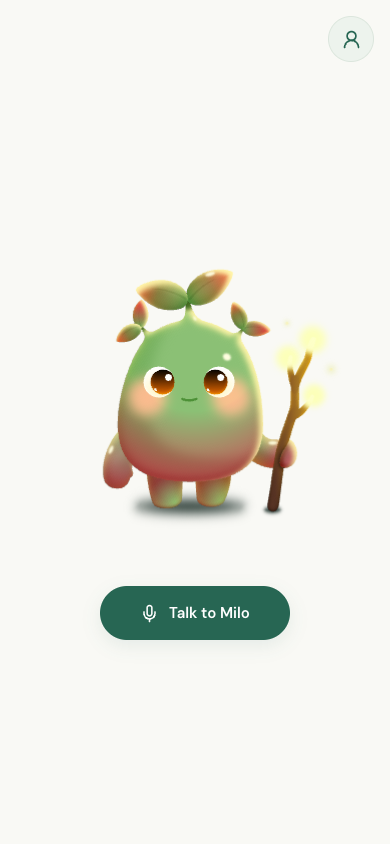
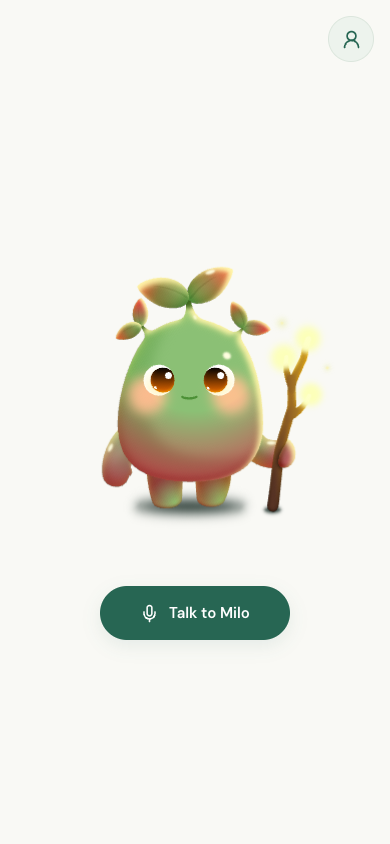
Reduce Milo GPU work with bounded animation and idle suspension

diff --git a/src/components/avatar.tsx b/src/components/avatar.tsx
@@ -26,19 +26,82 @@ export function Avatar({
   const canvas = useRef<HTMLCanvasElement>(null);
   const runtime = useRef<Rive | null>(null);
   const currentState = useRef(state);
+  const updateRendering = useRef<((drawNow?: boolean) => void) | null>(null);
   const [ready, setReady] = useState(false);
   useEffect(() => {
     currentState.current = state;
     if (runtime.current?.viewModelInstance) animate(runtime.current, state);
+    updateRendering.current?.(true);
   }, [state]);
   useEffect(() => {
     const element = canvas.current;
     if (!element) return;
     let cancelled = false;
     let instance: Rive | undefined;
-    const resize = () => instance?.resizeDrawingSurfaceToCanvas();
+    let loaded = false;
+    let timer: ReturnType<typeof setTimeout> | undefined;
+    let inViewport = true;
+    let settleUntil = 0;
+    const visible = () => !cancelled && !document.hidden && inViewport;
+    const stop = () => {
+      clearTimeout(timer);
+      timer = undefined;
+      instance?.stopRendering();
+    };
+    const suspend = () => {
+      stop();
+      if (instance && loaded && !instance.isPaused) {
+        instance.pause();
+        // A paused frame resets Rive's elapsed-time reference. The next
+        // animation must not jump ahead by the entire idle/hidden interval.
+        instance.drawFrame();
+        instance.stopRendering();
+      }
+    };
+    // Draw explicitly instead of running Rive's unlimited refresh-rate loop.
+    // Actual elapsed time still drives animation, so speech never slows down.
+    const frame = () => {
+      if (!instance || !loaded || !visible()) return;
+      if (instance.isPaused) instance.play();
+      else instance.drawFrame();
+      instance.stopRendering();
+      if (currentState.current !== "idle" || performance.now() < settleUntil) {
+        timer = setTimeout(frame, 1000 / (currentState.current === "speaking" ? 30 : 15));
+      } else suspend();
+    };
+    const render = (drawNow = false) => {
+      stop();
+      if (!instance || !loaded || !visible()) return;
+      // Let the supplied transition finish before freezing the resting pose.
+      if (drawNow && currentState.current === "idle") settleUntil = performance.now() + 500;
+      if (drawNow) frame();
+      else if (currentState.current !== "idle" || performance.now() < settleUntil) {
+        timer = setTimeout(frame, 1000 / (currentState.current === "speaking" ? 30 : 15));
+      }
+    };
+    updateRendering.current = render;
+    const resize = () => {
+      if (!instance || !loaded || !visible()) return;
+      const bounds = element.getBoundingClientRect();
+      // Retina resolution scales pixel work quadratically; keep the brush
+      // shading while bounding the drawing surface on high-density displays.
+      const dpr = Math.min(window.devicePixelRatio || 1, 1.5, 960 / Math.max(bounds.width, bounds.height, 1));
+      instance.resizeDrawingSurfaceToCanvas(dpr);
+      render();
+    };
     const observer = new ResizeObserver(resize);
     observer.observe(element);
+    const intersection = new IntersectionObserver(([entry]) => {
+      inViewport = entry.isIntersecting;
+      if (inViewport) { resize(); render(true); }
+      else suspend();
+    });
+    intersection.observe(element);
+    const onVisibility = () => {
+      if (document.hidden) suspend();
+      else { resize(); render(true); }
+    };
+    document.addEventListener("visibilitychange", onVisibility);
     void import("@rive-app/webgl2").then(({ Rive, RuntimeLoader, Layout, Fit, Alignment }) => {
       if (cancelled) return;
       RuntimeLoader.setWasmUrl("/rive/webgl2/rive.wasm");
@@ -57,17 +120,27 @@ export function Avatar({
         shouldDisableRiveListeners: true,
         layout: new Layout({ fit: Fit.Contain, alignment: Alignment.Center }),
         onLoad: () => {
-          if (cancelled || !instance) return;
-          animate(instance, currentState.current);
-          resize();
-          setReady(true);
+          // Rive queues its initial frame after onLoad; take ownership after it.
+          queueMicrotask(() => {
+            if (cancelled || !instance) return;
+            loaded = true;
+            animate(instance, currentState.current);
+            resize();
+            stop();
+            render(true);
+            setReady(true);
+          });
         },
       });
       runtime.current = instance;
     }).catch(() => { /* The supplied character's still image remains visible. */ });
     return () => {
       cancelled = true;
+      stop();
       observer.disconnect();
+      intersection.disconnect();
+      document.removeEventListener("visibilitychange", onVisibility);
+      updateRendering.current = null;
       runtime.current = null;
       instance?.cleanup();
     };

diff --git a/tests/e2e/home.spec.ts b/tests/e2e/home.spec.ts
@@ -147,3 +147,79 @@ test("preserves the original avatar's feathered brush shading", async ({ page })
     return alpha > 5 && alpha < 220;
   })).toBe(true);
 });
+
+test.describe("avatar rendering budget", () => {
+  test.use({ deviceScaleFactor: 3 });
+  test("rests when idle or hidden and limits active rendering", async ({ page }, testInfo) => {
+    await page.addInitScript(() => {
+      const original = CanvasRenderingContext2D.prototype.drawImage;
+      (window as unknown as { avatarDraws: number }).avatarDraws = 0;
+      CanvasRenderingContext2D.prototype.drawImage = function (image: CanvasImageSource, ...coordinates: number[]) {
+        if (this.canvas.classList.contains("mascot-rive")) {
+          (window as unknown as { avatarDraws: number }).avatarDraws++;
+        }
+        return Reflect.apply(original, this, [image, ...coordinates]);
+      };
+    });
+    await fakeVoice(page, false, true);
+    await page.route("**/api/session", route => route.fulfill({ json: { transport: { sdp: "answer" } } }));
+    await page.goto("/");
+    const canvas = page.locator(".avatar canvas");
+    await expect(canvas).toHaveCSS("opacity", "1");
+    const draws = () => page.evaluate(() => (window as unknown as { avatarDraws: number }).avatarDraws);
+    const darkMouth = () => canvas.evaluate((c: HTMLCanvasElement) => {
+      const x = Math.floor(c.width * 0.45), y = Math.floor(c.height * 0.505);
+      const width = Math.floor(c.width * 0.07), height = Math.floor(c.height * 0.05);
+      const pixels = c.getContext("2d")!.getImageData(x, y, width, height).data;
+      let dark = 0;
+      for (let i = 0; i < pixels.length; i += 4) {
+        if (pixels[i + 3] > 100 && pixels[i] < 70 && pixels[i + 1] < 100 && pixels[i + 2] < 80) dark++;
+      }
+      return dark / (width * height);
+    });
+    await page.waitForTimeout(650);
+    const idle = await draws();
+    await page.waitForTimeout(1000);
+    expect(await draws() - idle).toBe(0);
+    expect(await canvas.evaluate((c: HTMLCanvasElement) => c.width / c.getBoundingClientRect().width)).toBeLessThanOrEqual(1.5);
+    expect(await canvas.evaluate((c: HTMLCanvasElement) => Math.max(c.width, c.height))).toBeLessThanOrEqual(960);
+    await page.getByRole("button", { name: "Talk to Milo", exact: true }).click();
+    await page.evaluate(() => { window.voiceTest.speaking = true; });
+    await expect(page.locator(".avatar-speaking")).toBeVisible();
+    const active = await draws();
+    await page.waitForTimeout(2000);
+    const frames = await draws() - active;
+    expect(frames).toBeGreaterThan(5);
+    expect(frames).toBeLessThanOrEqual(65);
+    await testInfo.attach("rendering-budget.json", {
+      body: JSON.stringify({ idleFrames: 0, speakingFramesInTwoSeconds: frames, surface: await canvas.evaluate((c: HTMLCanvasElement) => ({ width: c.width, height: c.height, dpr: window.devicePixelRatio })) }),
+      contentType: "application/json",
+    });
+    await page.evaluate(() => {
+      Object.defineProperty(document, "hidden", { configurable: true, value: true });
+      document.dispatchEvent(new Event("visibilitychange"));
+    });
+    const hidden = await draws();
+    await page.waitForTimeout(500);
+    expect(await draws() - hidden).toBe(0);
+    await page.evaluate(() => {
+      Object.defineProperty(document, "hidden", { configurable: true, value: false });
+      document.dispatchEvent(new Event("visibilitychange"));
+    });
+    await expect.poll(draws).toBeGreaterThan(hidden);
+    await page.locator(".avatar").evaluate(e => { (e as HTMLElement).style.transform = "translateY(200vh)"; });
+    await page.waitForTimeout(200);
+    const outside = await draws();
+    await page.waitForTimeout(500);
+    expect(await draws() - outside).toBe(0);
+    await page.locator(".avatar").evaluate(e => { (e as HTMLElement).style.transform = ""; });
+    await expect.poll(draws).toBeGreaterThan(outside);
+    await expect.poll(darkMouth).toBeGreaterThan(0.05);
+    await page.getByRole("button", { name: "End conversation", exact: true }).click();
+    await expect.poll(darkMouth, { timeout: 2000 }).toBeLessThan(0.01);
+    await page.waitForTimeout(650);
+    const ended = await draws();
+    await page.waitForTimeout(500);
+    expect(await draws() - ended).toBe(0);
+  });
+});

diff --git a/README.md b/README.md
@@ -1,6 +1,6 @@
 # ontuc
 
-A hackathon health companion with a minimal main screen: Milo, one **Talk to Milo** button and a compact top-right account icon. Click to start voice; the same button cancels setup or ends the conversation. The supplied `public/animations/milo.riv` character uses its built-in idle, greeting, listening and talking states. Talking continues through short speech pauses and stops on user interruption; response completion is inferred after two seconds of output silence. Rive's WebGL2 renderer preserves the original soft shading and feathered edges, with the matching pinned WebAssembly runtime served locally from `public/rive/webgl2`. A still frame rendered with the same renderer appears while loading or if animation cannot load.
+A hackathon health companion with a minimal main screen: Milo, one **Talk to Milo** button and a compact top-right account icon. Click to start voice; the same button cancels setup or ends the conversation. The supplied `public/animations/milo.riv` character uses its built-in idle, greeting, listening and talking states. Talking continues through short speech pauses and stops on user interruption; response completion is inferred after two seconds of output silence. Rive's WebGL2 renderer preserves the original soft shading and feathered edges, with the matching pinned WebAssembly runtime served locally from `public/rive/webgl2`. Milo settles into a still pose when idle, renders speaking at up to 30 FPS and connecting/listening at up to 15 FPS, and pauses when hidden or outside the viewport. Rendering is capped at 1.5 device pixels per CSS pixel and a 960-pixel drawing surface. A still frame rendered with the same renderer appears while loading or if animation cannot load.
 
 The complete care-plan, sample appointment and editable doctor-brief journey remains available at `/journey`. The guided journey uses a fixed sample patient; the main appointment form and Milo save appointment reservations in SQLite. Signed-in Google users are stored in the same database, linked to their appointments by Google ID.
 
@@ -48,7 +48,7 @@ npx playwright install chromium
 npm run test:e2e
 ```
 
-On 7 October 2026: 136 unit tests and all 36 browser tests passed. Lint, typecheck and production build passed. Browser checks cover the complete sample journey, edit preservation after upstream errors, urgent routing, mode isolation, mobile widths and keyboard access. Live transport tests use fake media and upstream calls. Actual account-backed voice/audio, interruptions and captions remain **unverified**; automated checks use mocked live audio and upstream calls, with actual browser rendering of the supplied Rive animation. A separate real Responses backend check passed prepare → spoken booking question → one approval → booking-tool call → save in an isolated SQLite database, using only synthetic data. It did not exercise live speech. Google credentials are configured and the signed-in public platform was inspected. See [verification evidence](docs/verification.md).
+On 7 October 2026: 136 unit tests and all 37 browser tests passed. Lint, typecheck and production build passed. Browser checks cover the complete sample journey, edit preservation after upstream errors, urgent routing, mode isolation, mobile widths and keyboard access. Live transport tests use fake media and upstream calls. Actual account-backed voice/audio, interruptions and captions remain **unverified**; automated checks use mocked live audio and upstream calls, with actual browser rendering of the supplied Rive animation. A separate real Responses backend check passed prepare → spoken booking question → one approval → booking-tool call → save in an isolated SQLite database, using only synthetic data. It did not exercise live speech. Google credentials are configured and the signed-in public platform was inspected. See [verification evidence](docs/verification.md).
 
 ## Prototype boundaries
 

diff --git a/docs/verification.md b/docs/verification.md
@@ -91,3 +91,11 @@ A new real-browser regression checks the shadow's intermediate opacity below the
 Final local verification: 136 unit tests, ESLint and TypeScript pass; all 36 browser tests pass in 46.2 seconds with four workers. Initial headless runs using Chromium's SwiftShader software renderer hit click timeouts (including a two-page booking test with one worker). A renderer probe identified SwiftShader versus the available Apple M2 Metal renderer. Playwright now uses native Metal on macOS, keeping the original action timeouts and full coverage. No test was skipped or changed to bypass input checks. The real feathering regression and speech/interruption checks pass with both software rendering in the focused home run and native GPU rendering in the final full run. These checks made no paid AI calls and used isolated synthetic booking data. Updated desktop/mobile screenshots show the restored shading.
 
 Production build passes and the web LaunchAgent was restarted with the correction. Public ontuc.com login, the original avatar, both WebGL2 WASM binaries and the updated fallback return HTTP 200; downloaded asset hashes match the local files. WASM is served as application/wasm. An unauthenticated appointment request still returns HTTP 401.
+
+Avatar rendering optimization — 7 October 2026: the enlarged feathered avatar was continuously rendering at the display refresh rate and uncapped device pixel ratio. A real high-density browser regression observed redraws while idle before the fix. Rendering now uses bounded explicit Rive frames: speaking up to 30 FPS, connecting/listening up to 15 FPS, and a 500 ms idle transition before suspension. The drawing surface is capped at 960 pixels and DPR 1.5 without changing the character's display size or WebGL feathering. Offscreen and hidden tabs suspend rendering; public pause/drawFrame/play APIs reset elapsed time on resume. Resize/visibility/intersection observers and timers are cleaned up on unmount. This follows Rive's [rendering-loop APIs](https://rive.app/docs/runtimes/web/rive-parameters#rendering-loop).
+
+Independent review identified that suspending after only one idle frame froze the talking mouth. A real mouth-pixel regression reproduced that loss (25.5% dark pixels in the mouth region instead of under 1%); the bounded transition corrects it. The final browser regression verifies no ongoing idle/end-call/hidden/offscreen redraws, continued motion on resume, bounded drawing resolution at DPR 3, the speaking frame budget, and a closed resting mouth. Existing visual-feathering and speech-gap/interruption tests continue to pass. These are rendering-work measurements; laptop temperature and battery savings were not measured. No paid AI requests or production patient data were used.
+
+Final optimization checks: 136 unit tests and all 37 browser tests pass (49.5 seconds), with ESLint, TypeScript and the production build passing. The reviewer independently confirmed zero native redraws after suspension and a zero elapsed-time delta on resume after 1.5 seconds, including the resize/resume path. No further substantive issues were found.
+
+Deployment: the web LaunchAgent was restarted with the optimized build. Public login and the new avatar JavaScript bundle return HTTP 200; the downloaded bundle hash matches the local production build.
